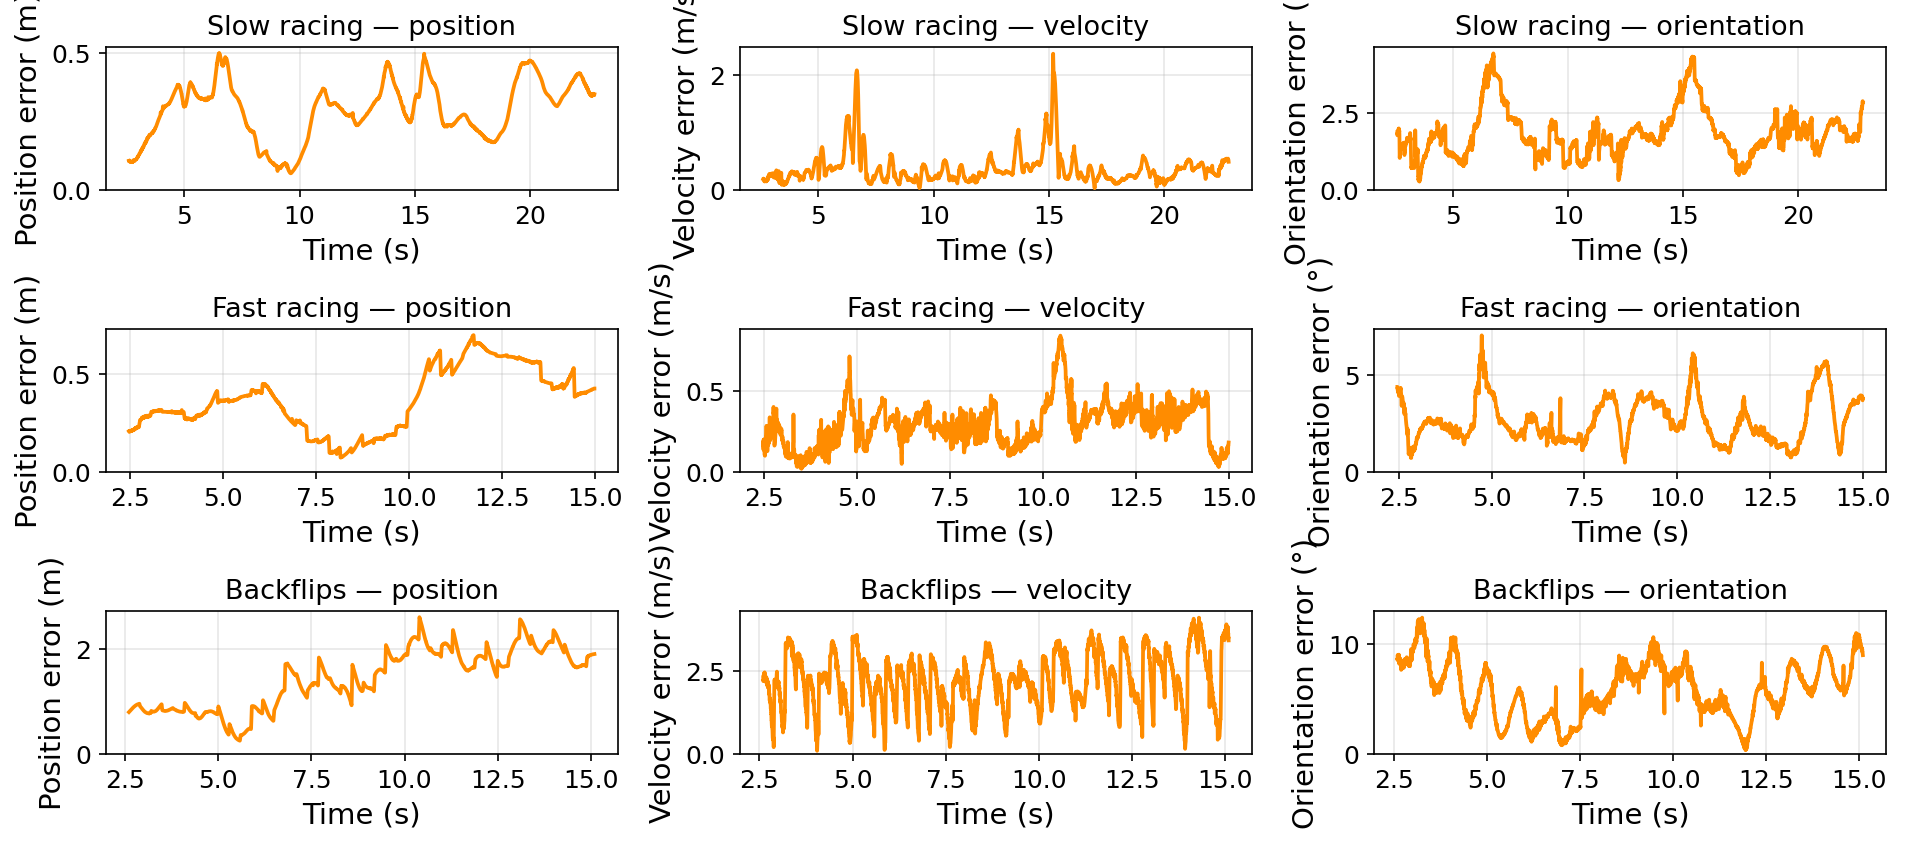
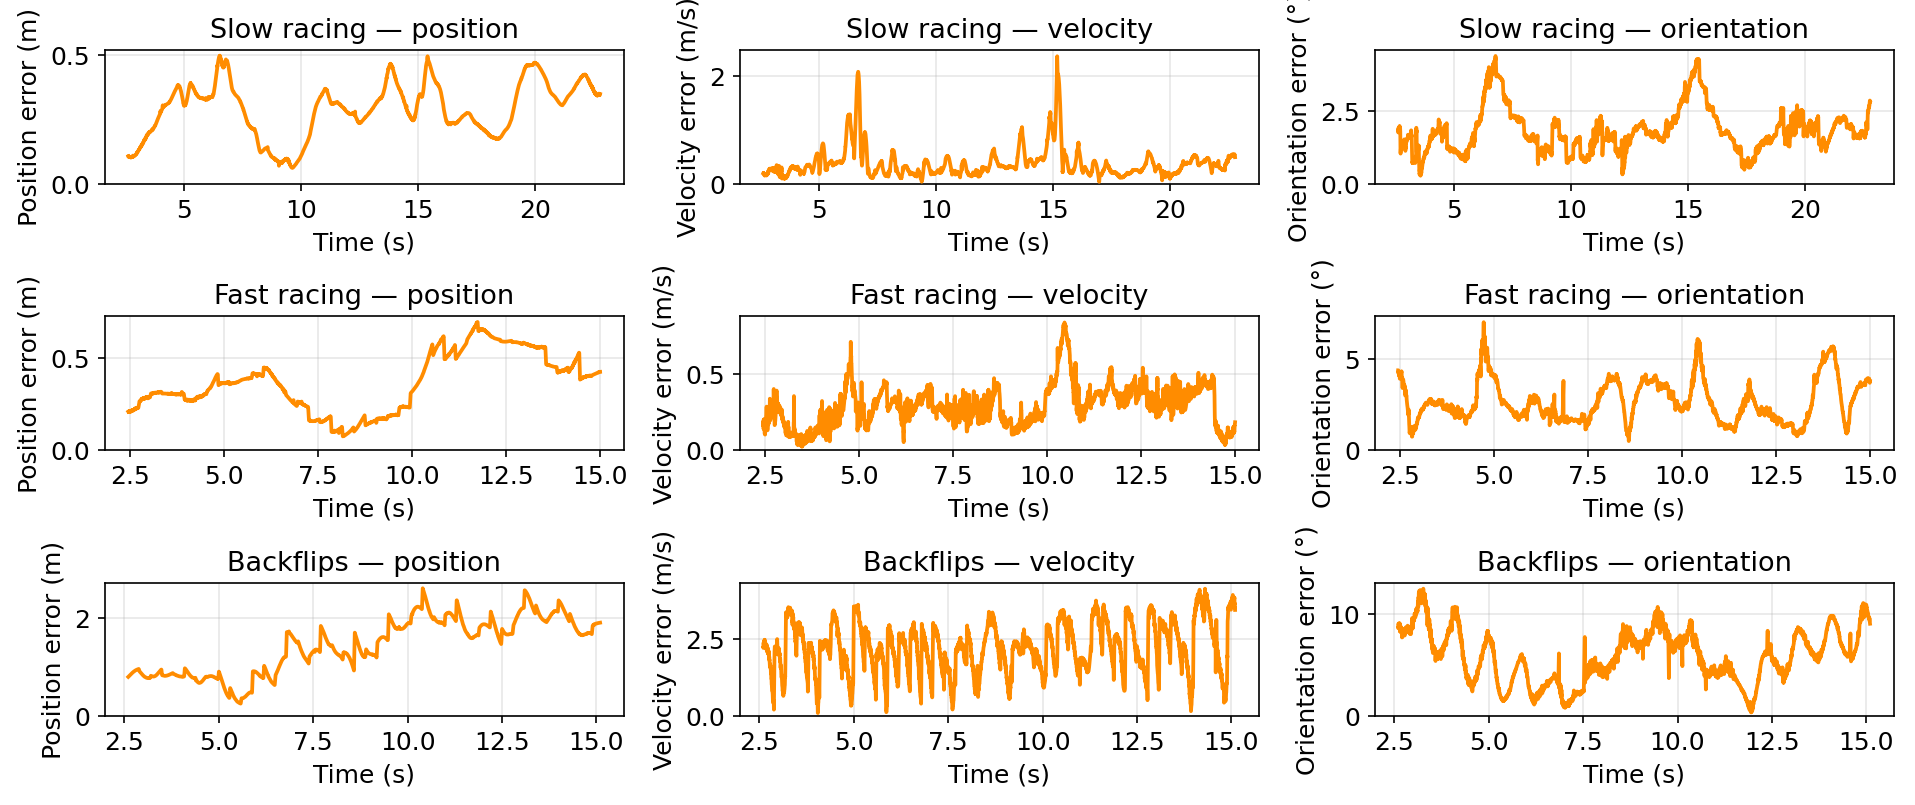
report: fix clipped figures (traj data + error-figure y-labels)
- Fig 2 (traj_combined): switch equal-aspect from adjustable='datalim' to
  'box'. Under sharex the datalim mode shrank the vertical (X/Z) limits below
  the data range, slicing the figure-eight loop tops on slow/fast racing. Box
  mode keeps the autoscaled data limits (all trajectory visible) and shrinks
  the drawing box; the honest equal-aspect figure is slightly taller, so the
  inter-row/legend/title whitespace is tightened to compensate.
- Fig 3 (error_over_time): the y-labels ("Orientation error (deg)" etc.)
  overflowed the short 3-row subplots and were clipped at the figure top.
  Reduce axes label font 14->12 so they fit, add savefig pad_inches=0.12, and
  trim the per-row height (1.95->1.84) to hold the page budget.
- conclusion: drop a redundant clause to absorb the taller trajectory figure.

Both figures regenerated from on-disk .npz (no solver re-run; numbers
unchanged). Build: 12pp, 0 undefined refs, 0 overfull.

Claude-Session: https://claude.ai/code/session_01AUANYWdo6MZ4dR2dob9UHZ

diff --git a/report/figures/gen_combined_traj.py b/report/figures/gen_combined_traj.py
@@ -80,14 +80,15 @@ for col, (bag, title) in enumerate(BAGS):
         ax.set_ylabel(yl, labelpad=1)
         ax.grid(True, alpha=0.3)
         ax.tick_params(length=2, pad=1.5)
-        # Equal data-to-print scaling via the data limits (not the box): every
-        # panel fills its grid cell, so all panels are the SAME width and the
-        # shared Y axis is scaled identically across a column's two rows; the
-        # vertical (X / Z) limits expand as needed to keep 1 m square.
-        ax.set_aspect('equal', adjustable='datalim')
-        ax.margins(0.06)
+        # Equal data-to-print scaling.  adjustable='box' keeps the autoscaled
+        # data limits (all trajectory data + margins stay visible) and shrinks
+        # the drawing box to hold 1 m square; 'datalim' was clipping loop-tops
+        # because, under sharex, it shrank the vertical (X / Z) limits below the
+        # data range.
+        ax.margins(0.08)
+        ax.set_aspect('equal', adjustable='box')
         if row == 0:
-            ax.set_title(title, fontweight='bold', pad=3)
+            ax.set_title(title, fontweight='bold', pad=2)
         else:
             ax.set_xlabel('Y (m)', labelpad=1)
 
@@ -97,10 +98,10 @@ handles = [Line2D([0], [0], color=C_MOCAP, lw=1.8, ls='-'),
            Line2D([0], [0], color=C_MOCAP, marker='s', ls='none', markersize=5)]
 labels  = ['MoCap ground truth', 'SW live edge', 'start']
 fig.legend(handles, labels, loc='lower center', ncol=3,
-           frameon=False, bbox_to_anchor=(0.5, -0.01),
+           frameon=False, bbox_to_anchor=(0.5, 0.005),
            columnspacing=1.8, handlelength=2.2)
 
-fig.tight_layout(rect=[0, 0.055, 1, 1], w_pad=1.2, h_pad=0.8)
+fig.tight_layout(rect=[0, 0.04, 1, 1], w_pad=1.2, h_pad=0.2)
 
 out = OUT_DIR / 'traj_combined.pdf'
 fig.savefig(out, bbox_inches='tight')

diff --git a/report/figures/gen_error_time.py b/report/figures/gen_error_time.py
@@ -37,8 +37,8 @@ TAG = 'mocap-init_mocap-heading'
 matplotlib.rcParams.update({
     # authored ~13in, displayed full text width ~7.16in (figure*, ~0.55x);
     # fonts kept near body text (~8pt on page) and not clipping
-    'font.size':       14,
-    'axes.labelsize':  14,
+    'font.size':       13,
+    'axes.labelsize':  12,
     'axes.titlesize':  13,
     'xtick.labelsize': 12,
     'ytick.labelsize': 12,
@@ -50,7 +50,7 @@ matplotlib.rcParams.update({
 C_BATCH = '#d62728'
 C_LIVE  = 'darkorange'
 
-fig, axes = plt.subplots(len(BAGS), 3, figsize=(13, 1.95 * len(BAGS)))
+fig, axes = plt.subplots(len(BAGS), 3, figsize=(13, 1.84 * len(BAGS)))
 if len(BAGS) == 1:
     axes = axes[np.newaxis, :]
 
@@ -109,8 +109,8 @@ fig.tight_layout()
 
 out_pdf = OUT_DIR / 'error_over_time.pdf'
 out_png = OUT_DIR / 'error_over_time.png'
-fig.savefig(out_pdf, bbox_inches='tight')
-fig.savefig(out_png, dpi=150, bbox_inches='tight')
+fig.savefig(out_pdf, bbox_inches='tight', pad_inches=0.12)
+fig.savefig(out_png, dpi=150, bbox_inches='tight', pad_inches=0.12)
 print(f"Saved: {out_pdf}")
 print(f"Saved: {out_png}")
 plt.close(fig)

diff --git a/report/sections/conclusion.tex b/report/sections/conclusion.tex
@@ -7,8 +7,7 @@ source: at the live leading edge,
 \SI{0.48}{\metre\per\second}/\SI{2.0}{\degree} on gentle racing,
 \SI{0.32}{\metre\per\second}/\SI{2.9}{\degree} on aggressive racing
 (0.35--0.70\,s per window on a laptop), confirmed on held-out flights
-and with an approximately calibrated (\ac{nees}) orientation covariance
-on racing.
+and with approximately calibrated (\ac{nees}) racing orientation covariance.
 Absolute position is not observable from Doppler+\ac{imu} and drifts with
 distance (0.6--0.9\% on racing, 2.9\% under tumbling); yaw requires a
 heading sensor.  Within those structural limits, \emph{good results